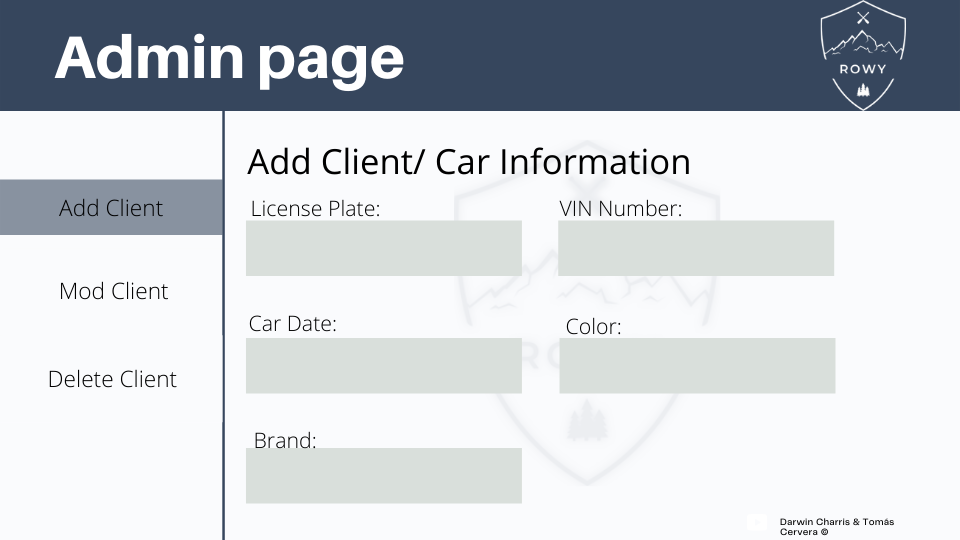
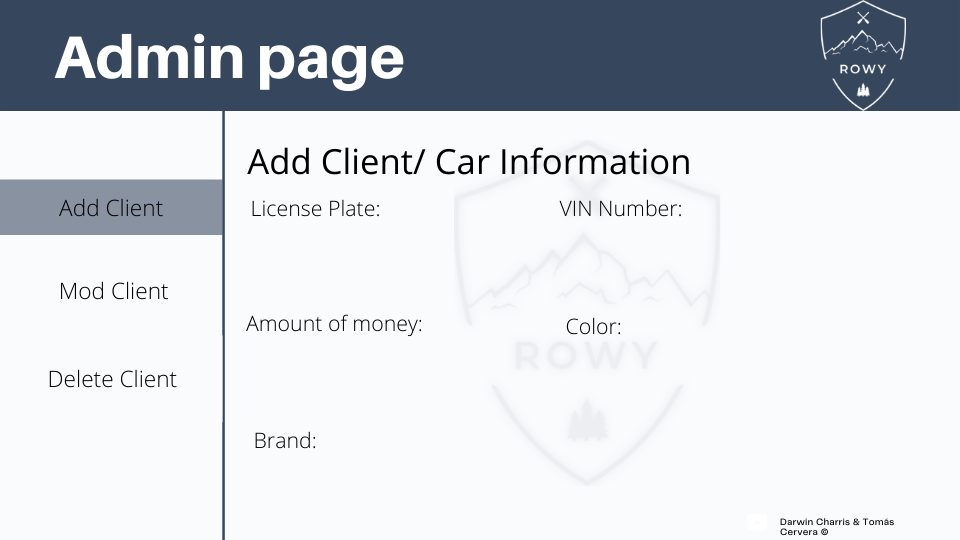
13-05

Changed region(s): [[0.25, 0.3852, 0.875, 0.5333], [0.25, 0.5926, 0.875, 0.7407], [0.25, 0.8296, 0.5625, 0.9481]]

diff --git a/Rowy.py b/Rowy.py
@@ -89,20 +89,17 @@ def Mainmenu():
                                 ErrorVinN.config(text="Empty field")
                             else:
                                 keyVin = True
-                            #Validar fecha
+                            #Validar monto de dinero
                             if(Cdate == ""):
                                 ErrorCdate.config(text="")
                                 ErrorCdate.config(text="Empty field")
                             else:
-                                if(len(Cdate)!=5):
+                                monto = int(Cdate)
+                                if(monto<10000):
                                     ErrorCdate.config(text="")
-                                    ErrorCdate.config(text="Is not a date")
+                                    ErrorCdate.config(text="Isn't sufficient money")
                                 else:
-                                    if search( "-" , Cdate):
-                                        keyCdate = True
-                                    else:
-                                        ErrorCdate.config(text="")
-                                        ErrorCdate.config(text="Date should have -")
+                                    keyCdate = True
                             #Validar color
                             if(color == ""):
                                 ErrorColor.config(text="")
@@ -614,6 +611,34 @@ def Mainmenu():
     def login():
         # Validar cliente
         def validarClient(c1: Str, c2: Str):
+            def instanciar ():
+                #Nombre
+                cursor.execute("SELECT name FROM Clientes WHERE mail='"+c1+"'")
+                client.name = cursor.fetchone()
+                #Apellido
+                cursor.execute("SELECT lasName FROM Clientes WHERE mail='"+c1+"'")
+                client.lastname = cursor.fetchone()
+                #Plan
+                cursor.execute("SELECT plan FROM Clientes WHERE mail='"+c1+"'")
+                client.plan = cursor.fetchone()
+                #telefono
+                cursor.execute("SELECT telephone FROM Clientes WHERE mail='"+c1+"'")
+                client.telephone = cursor.fetchone()
+                #Placa
+                cursor.execute("SELECT licensePlate FROM Clientes WHERE mail='"+c1+"'")
+                client.licenseplate = cursor.fetchone()
+                #numero VIn
+                cursor.execute("SELECT numVIN FROM Clientes WHERE mail='"+c1+"'")
+                client.numVIN = cursor.fetchone()
+                #Fecha/modelo
+                cursor.execute("SELECT dateB FROM Clientes WHERE mail='"+c1+"'")
+                client.dateB = cursor.fetchone()
+                #Color
+                cursor.execute("SELECT color FROM Clientes WHERE mail='"+c1+"'")
+                client.color = cursor.fetchone()
+                #Marca
+                cursor.execute("SELECT brand FROM Clientes WHERE mail='"+c1+"'")
+                client.brand = cursor.fetchone()
             # Conseguir el email en la base de datos
             cursor = conexion.cursor()
             cursor.execute("SELECT mail FROM Clientes WHERE mail='"+c1+"'")
@@ -628,9 +653,11 @@ def Mainmenu():
                 # validar si la contraseña es correcta
                 contraseña = "('"+c2+"',)"
                 if(passw != None):
-
+                    #Instanciar obj cliente
+                    instanciar()
                     # Lanzar Admin page
                     Client()
+                    
                 else:
                     Error.config(text="")
                     Error.config(text="Invalid password")

diff --git a/Classes.py b/Classes.py
@@ -36,7 +36,7 @@ class plan3(plan):
     pass
 
 
-class client_car():#Colocar que hereda de plan
+class client_car(plan):#Colocar que hereda de plan
     def __init__(self, licenseplate: str, numVIN: str, dateB: str, color: str, brand: str, origin: str)-> None:
         self.licenseplate = licenseplate
         self.numVIN = numVIN
@@ -44,6 +44,7 @@ class client_car():#Colocar que hereda de plan
         self.color = color
         self.brand = brand
         self.origin = origin
+        super().__init__()
     
 
 
